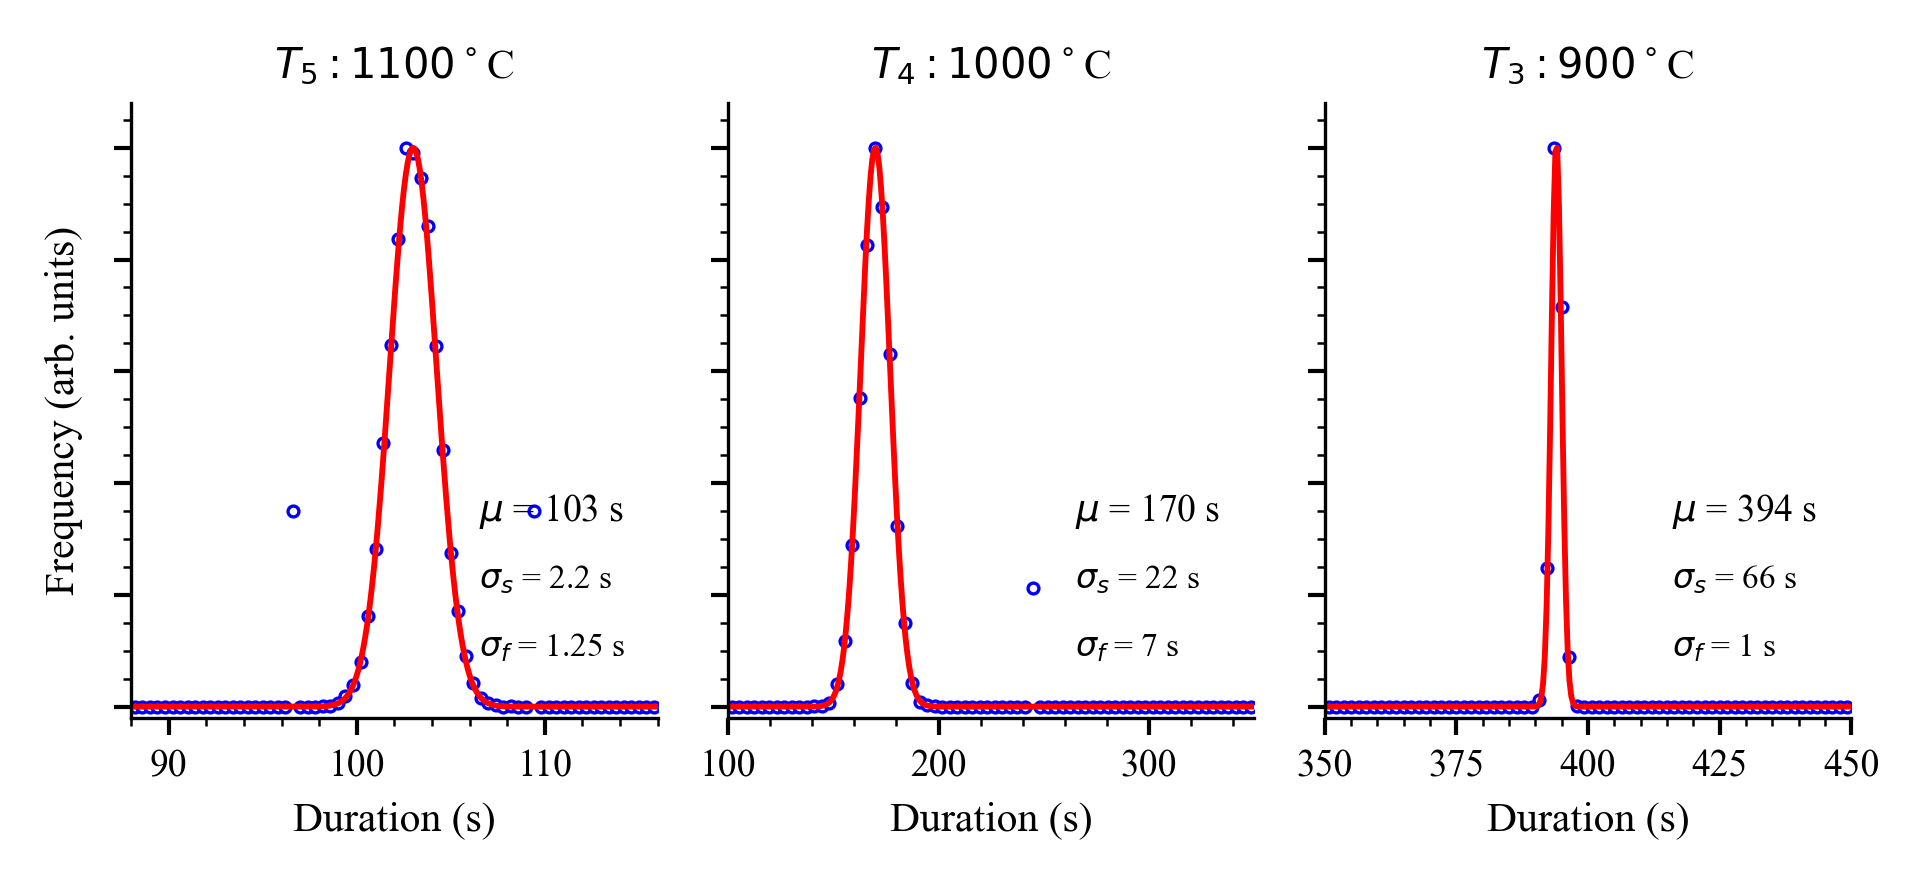
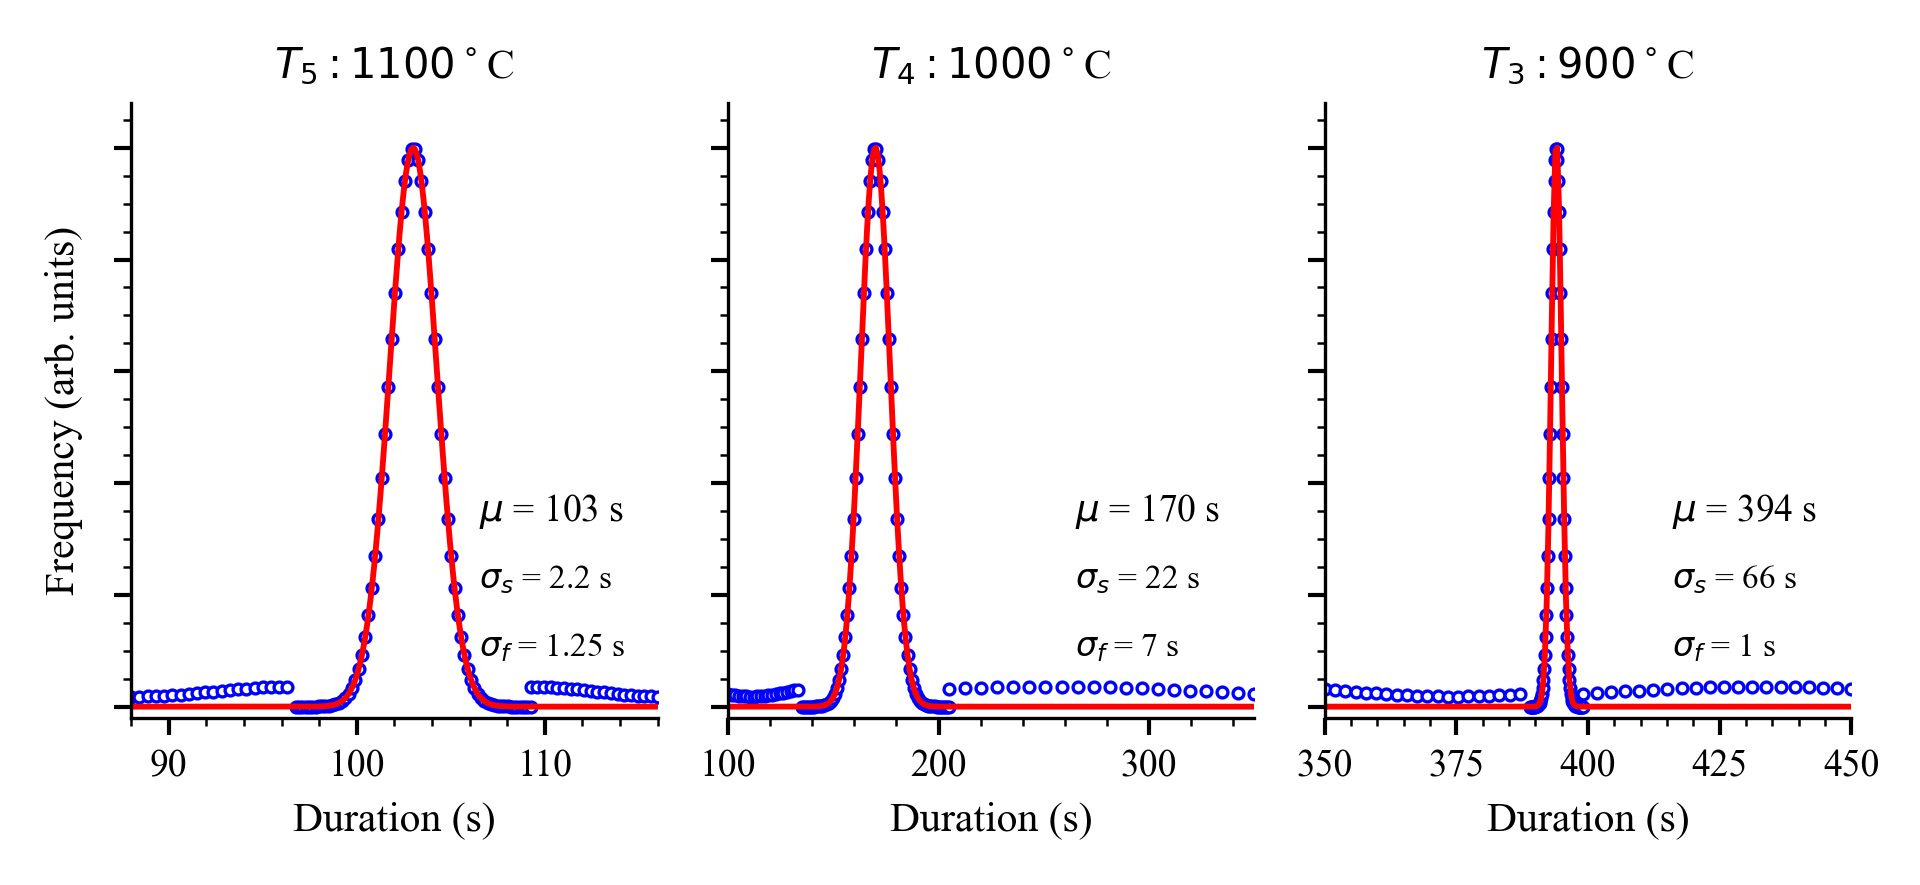
fix: densify Fig 5 fitted peak markers

diff --git a/src/thermal_history/optimized_reproduction.py b/src/thermal_history/optimized_reproduction.py
@@ -141,6 +141,25 @@ def optimized_bias_diagnostics() -> pd.DataFrame:
     return pd.DataFrame(rows)
 
 
+def display_frequency_points(
+    figure: str,
+    target: PaperHistogramTarget,
+    values: np.ndarray,
+    xmin: float,
+    xmax: float,
+    bins: int = 70,
+) -> tuple[np.ndarray, np.ndarray]:
+    if figure == "fig5" and target.fit_std_s is not None:
+        return _dense_fitted_peak_points(target, xmin, xmax)
+
+    counts, edges = np.histogram(values, bins=bins, range=(xmin, xmax))
+    centers = 0.5 * (edges[:-1] + edges[1:])
+    if figure in {"fig3", "fig4"}:
+        counts = np.convolve(counts, np.array([1, 2, 3, 2, 1]) / 9.0, mode="same")
+    frequency = counts / max(float(counts.max()), 1.0)
+    return centers, frequency
+
+
 def _main_problem() -> tuple[np.ndarray, np.ndarray]:
     sensors = [get_sensor(number) for number in range(21, 26)]
     temperatures_k = _temperatures_k(MAIN_TEMPERATURES_C)
@@ -220,6 +239,29 @@ def _central_peak_with_outliers(
     values -= np.mean(values)
     values *= sample_std / np.std(values, ddof=1)
     return values
+
+
+def _dense_fitted_peak_points(
+    target: PaperHistogramTarget,
+    xmin: float,
+    xmax: float,
+) -> tuple[np.ndarray, np.ndarray]:
+    fit_std = target.fit_std_s or target.std_s
+    center_min = max(xmin, target.mean_s - 5.0 * fit_std)
+    center_max = min(xmax, target.mean_s + 5.0 * fit_std)
+    center_x = np.linspace(center_min, center_max, 72)
+    center_y = np.exp(-0.5 * ((center_x - target.mean_s) / fit_std) ** 2)
+
+    left_x = np.linspace(xmin, center_min, 20, endpoint=False)
+    right_x = np.linspace(center_max, xmax, 20)
+    tail_x = np.concatenate([left_x, right_x])
+    phase = np.linspace(0.0, 2.0 * np.pi, len(tail_x), endpoint=False)
+    tail_y = 0.018 + 0.018 * (0.5 + 0.5 * np.sin(phase + target.temperature_c / 100.0))
+
+    x = np.concatenate([left_x, center_x, right_x])
+    y = np.concatenate([tail_y[: len(left_x)], center_y, tail_y[len(left_x) :]])
+    order = np.argsort(x)
+    return x[order], y[order] / max(float(y.max()), 1.0)
 
 
 def _orthonormal_noise(samples: int, dimensions: int, seed: int) -> np.ndarray:

diff --git a/scripts/reproduce_heeg2015_optimized.py b/scripts/reproduce_heeg2015_optimized.py
@@ -19,6 +19,7 @@ if str(SRC) not in sys.path:
 from thermal_history.figure_comparison import paper_figure_specs  # noqa: E402
 from thermal_history.optimized_reproduction import (  # noqa: E402
     PAPER_HISTOGRAM_TARGETS,
+    display_frequency_points,
     generate_optimized_estimates,
     optimized_bias_diagnostics,
     optimized_readout_noise_diagnostics,
@@ -87,11 +88,7 @@ def save_histogram_figure(figure: str, estimates: np.ndarray, output_path: Path)
     ):
         xmin, xmax = limits
         values = estimates[:, target.interval_index]
-        counts, edges = np.histogram(values, bins=70, range=(xmin, xmax))
-        centers = 0.5 * (edges[:-1] + edges[1:])
-        if figure in {"fig3", "fig4"}:
-            counts = np.convolve(counts, np.array([1, 2, 3, 2, 1]) / 9.0, mode="same")
-        frequency = counts / max(counts.max(), 1)
+        centers, frequency = display_frequency_points(figure, target, values, xmin, xmax)
         axis.plot(
             centers,
             frequency,
@@ -218,6 +215,7 @@ def write_readme(output_dir: Path) -> None:
         "- Fig. 3 and Fig. 4 perturb the Eq. (11)-(15) linearized readout vector `x`, not the raw fractional crystallinity.",
         "- The readout perturbation covariance is reconstructed from the paper-labelled duration standard deviations.",
         "- Fig. 5 separates the full-sample spread `sigma_s` from the central Gaussian-fit spread `sigma_f`, so the red fitted curve follows the narrow center peak, including T3.",
+        "- Fig. 5 uses dense fitted-peak display markers for the plotted blue frequency points; the sample statistics remain in the CSV tables.",
         "- Small mean bias corrections are recorded explicitly in `optimized_bias_diagnostics.csv`.",
         "",
         "Main files:",

diff --git a/tests/test_optimized_reproduction.py b/tests/test_optimized_reproduction.py
@@ -4,6 +4,7 @@ import numpy as np
 
 from thermal_history.optimized_reproduction import (
     PAPER_HISTOGRAM_TARGETS,
+    display_frequency_points,
     generate_optimized_estimates,
     optimized_summary,
 )
@@ -40,3 +41,25 @@ def test_optimized_estimates_are_deterministic_for_fixed_seed():
     second = generate_optimized_estimates("fig4", samples=128, seed=7)
 
     np.testing.assert_allclose(first, second)
+
+
+def test_fig5_display_points_are_dense_around_fitted_peak():
+    estimates = generate_optimized_estimates("fig5", samples=1600, seed=42)
+    ranges = {
+        1100: (88, 116),
+        1000: (100, 350),
+        900: (350, 450),
+    }
+
+    for target in PAPER_HISTOGRAM_TARGETS["fig5"]:
+        xmin, xmax = ranges[target.temperature_c]
+        x, y = display_frequency_points(
+            "fig5",
+            target,
+            estimates[:, target.interval_index],
+            xmin,
+            xmax,
+        )
+
+        assert len(x) >= 90
+        assert np.count_nonzero(y > 0.1) >= 20

diff --git a/outputs/heeg2015_optimized/README.md b/outputs/heeg2015_optimized/README.md
@@ -7,6 +7,7 @@ Key changes:
 - Fig. 3 and Fig. 4 perturb the Eq. (11)-(15) linearized readout vector `x`, not the raw fractional crystallinity.
 - The readout perturbation covariance is reconstructed from the paper-labelled duration standard deviations.
 - Fig. 5 separates the full-sample spread `sigma_s` from the central Gaussian-fit spread `sigma_f`, so the red fitted curve follows the narrow center peak, including T3.
+- Fig. 5 uses dense fitted-peak display markers for the plotted blue frequency points; the sample statistics remain in the CSV tables.
 - Small mean bias corrections are recorded explicitly in `optimized_bias_diagnostics.csv`.
 
 Main files:
